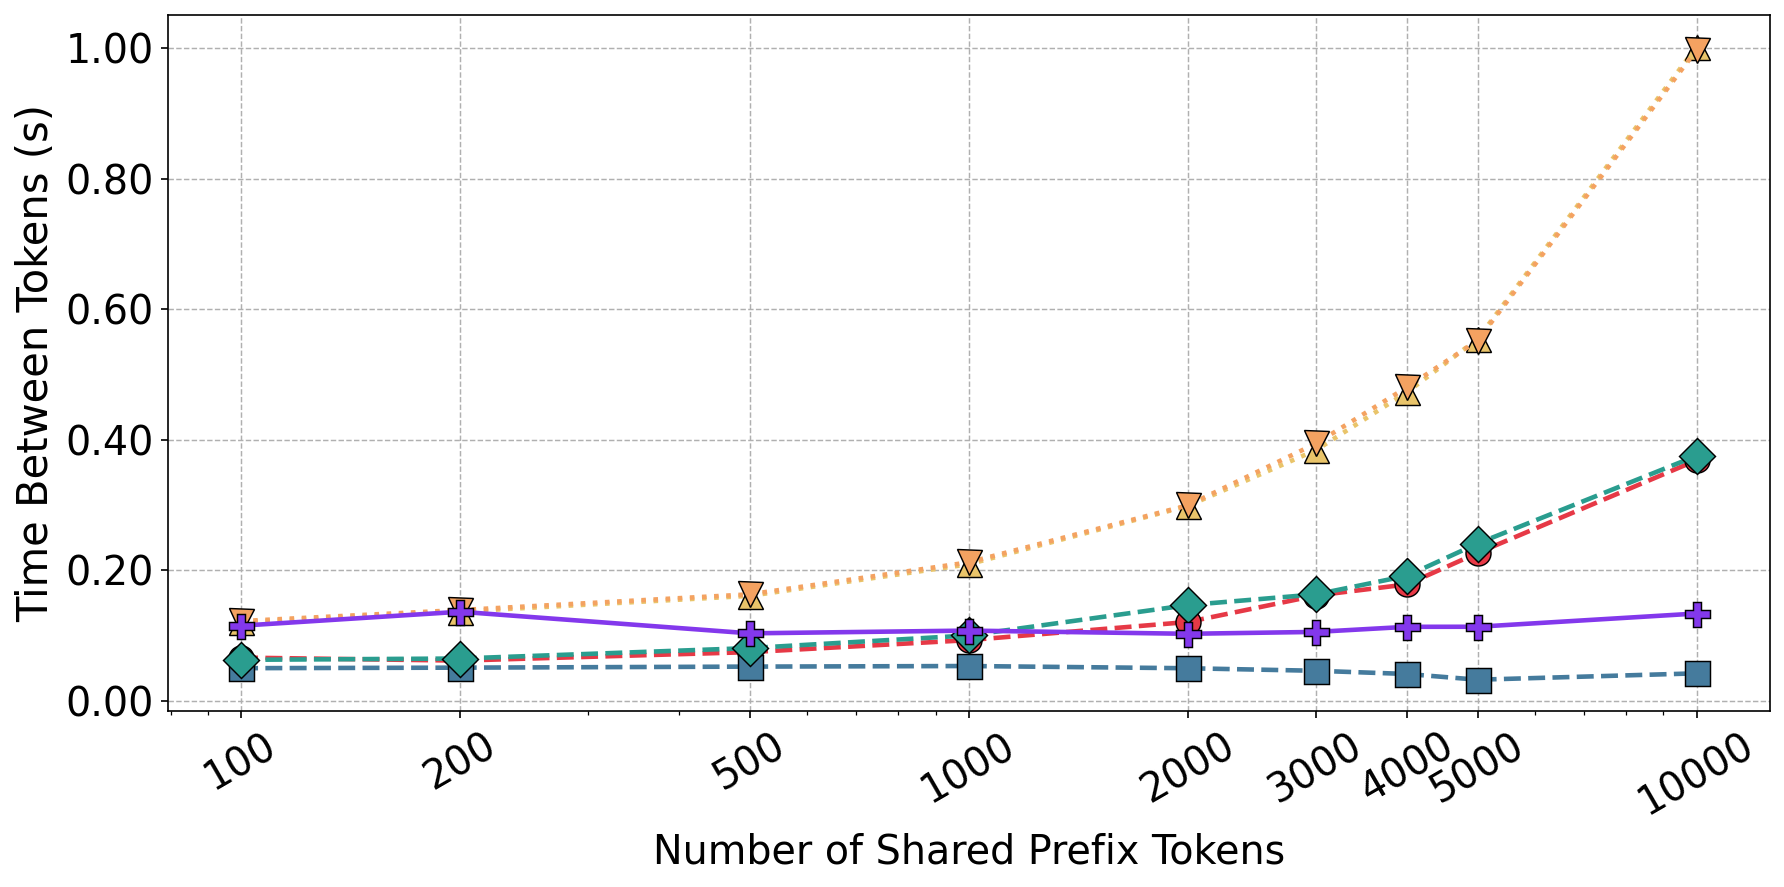
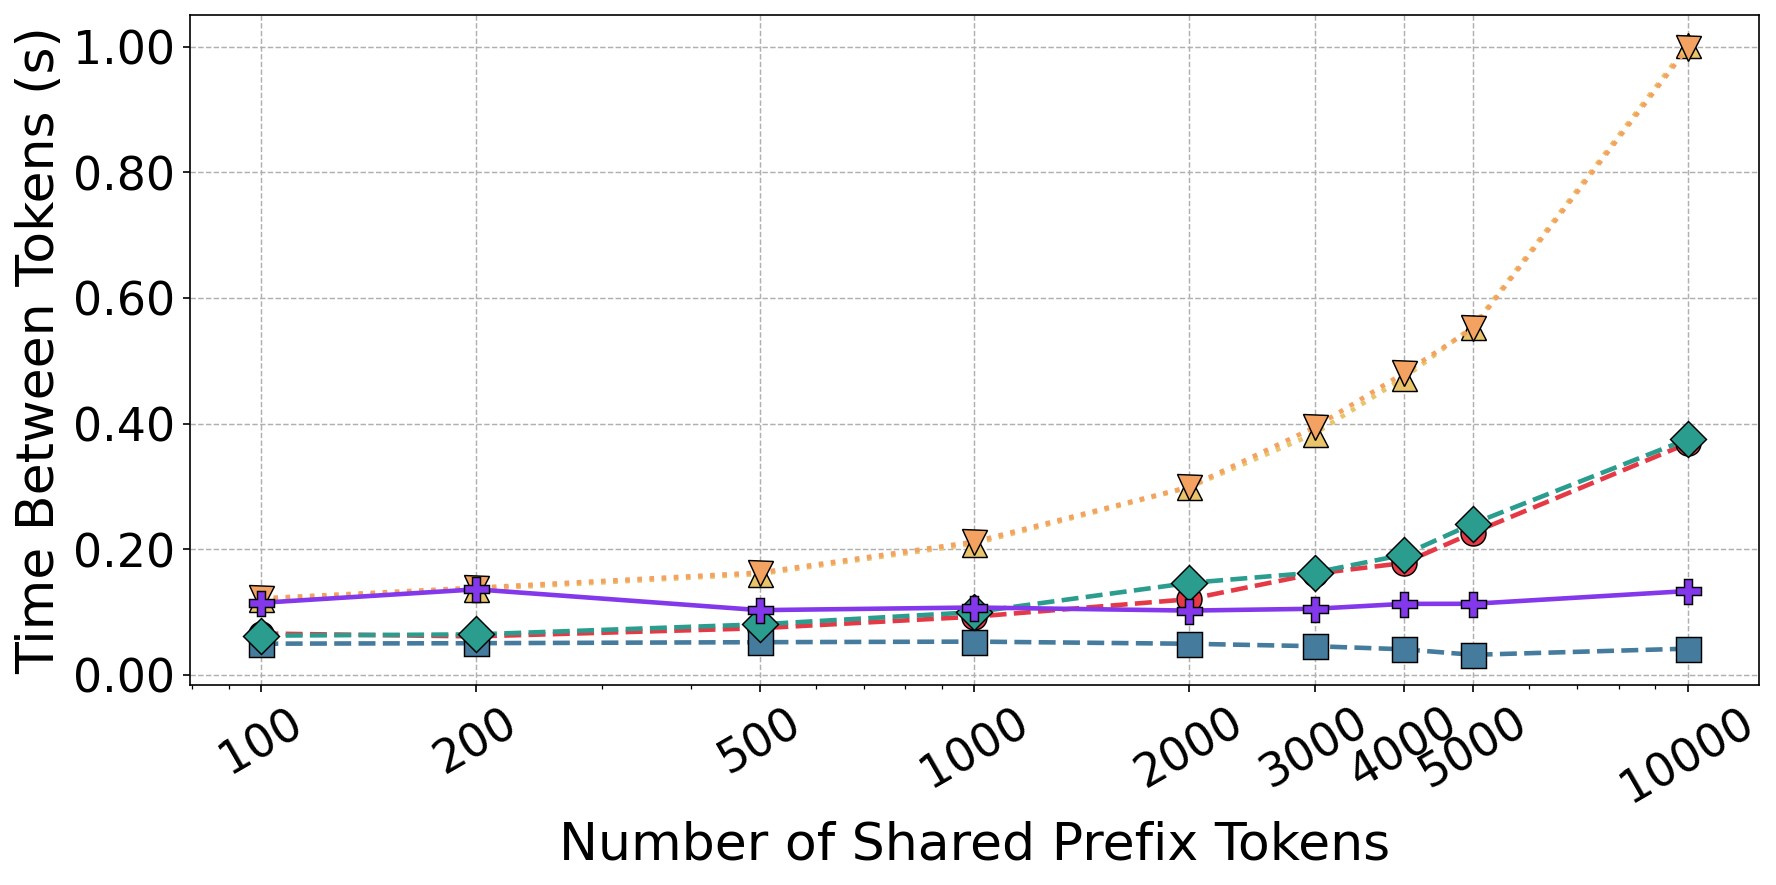
sys

diff --git a/code/vllm/sys_prompt_tokens_logs/plot.py b/code/vllm/sys_prompt_tokens_logs/plot.py
@@ -182,19 +182,19 @@ def make_plot(metric_key, ylabel, title, outpath):
 
     ax.set_xscale("log")
 
-    ax.set_xlabel("Number of Shared Prefix Tokens", fontsize=19)
-    ax.set_ylabel(ylabel, fontsize=20)
+    ax.set_xlabel("Number of Shared Prefix Tokens", fontsize=25)
+    ax.set_ylabel(ylabel, fontsize=25)
 
     ax.set_xticks(all_tokens)
     ax.set_xticklabels(all_tokens, rotation=30)
-    ax.get_xaxis().set_major_formatter(ticker.ScalarFormatter())
+    # ax.get_xaxis().set_major_formatter(ticker.ScalarFormatter())
 
-    ax.tick_params(axis="both", labelsize=19)
+    ax.tick_params(axis="both", labelsize=22)
 
     ax.yaxis.set_major_formatter(ticker.FormatStrFormatter('%.2f'))
 
     if metric_key == "throughput":
-        ax.legend(fontsize=18, framealpha=0.3, ncol=1)
+        ax.legend(fontsize=20, framealpha=0.3, ncol=2)
 
     ax.grid(True, linewidth=0.7, linestyle="--")
 
@@ -225,8 +225,8 @@ make_plot(
 
 make_plot(
     "avg_batch",
-    "Avg Running Batch Size",
-    "Average Running Batch Size vs Shared Prefix Tokens",
+    "Avg Batch Size",
+    "Average Batch Size vs Shared Prefix Tokens",
     os.path.join(OUT, "avg_batch_vs_sys_prompt_tokens.png")
 )
 
